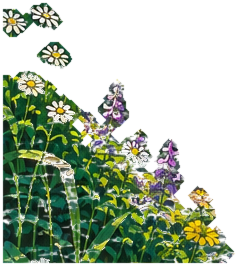
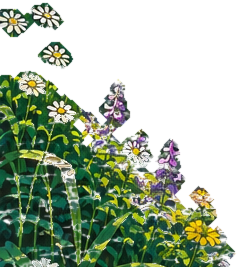
Elderbrook mill: wind motion on the willow, tree and flower beds

Changed region(s): [[0.0, 0.2406, 1.0, 1.0], [0.0, 0.0, 0.2647, 0.1504], [0.1471, 0.1504, 0.3235, 0.2707]]

diff --git a/eb/eb.js b/eb/eb.js
@@ -682,8 +682,26 @@ const props = [];
     for (let k = 0; k < pos.count; k++) { const ux = uv.getX(k), uy = uv.getY(k); pos.setXYZ(k, (x0 + (x1 - x0) * ux) / PW * 2 - 1, 1 - (y1 - (y1 - y0) * uy) / PH * 2, 0);
       wgt[k] = pr.anchor === "top" ? 1 - uy : pr.anchor === "left" ? ux : uy; }                       // 0 where it is rooted, 1 at its free end
     g.setAttribute("wgt", new THREE.BufferAttribute(wgt, 1));
-    const mat = new THREE.ShaderMaterial({ transparent: true, depthTest: false, depthWrite: false, uniforms: { map: { value: tex }, t: { value: 0 }, amp: { value: 0 } },
-      vertexShader: "attribute float wgt; uniform float t, amp; varying vec2 vUv; void main(){ vUv = uv; gl_Position = vec4(position.xy, 0.0, 1.0); }",
+    const mat = new THREE.ShaderMaterial({ transparent: true, depthTest: false, depthWrite: false, uniforms: { map: { value: tex }, t: { value: 0 }, amp: { value: +(params.get("sway") ?? 1) }, kind: { value: pr.anchor === "top" ? 0 : pr.anchor === "left" ? 1 : 2 }, seed: { value: props.length * 2.37 + 0.6 }, px: { value: 2 / PW }, asp: { value: PW / PH } },
+      vertexShader: `attribute float wgt; uniform float t, amp, kind, seed, px, asp; varying vec2 vUv;
+        void main(){ vUv = uv; vec2 p = position.xy; float sx = p.x * 3.0;
+          // one wind for the whole scene, blowing to the right in slow gusts that cross the screen; every object answers it in its own way
+          float gust = smoothstep(0.15, 0.95, 0.5 + 0.35 * sin(t * 0.21 - p.x * 1.1 + 0.8) + 0.25 * sin(t * 0.13 - p.x * 0.6 + 2.0));
+          float wind = 0.3 + 0.7 * gust; vec2 d = vec2(0.0);
+          if (kind < 0.5) {            // willow: fronds hang from the top; the swing travels down each one, and neighbours are out of step
+            float w = pow(wgt, 1.5), ph = sx * 2.3 + seed;
+            float sw = 0.55 * sin(t * 0.85 + ph - wgt * 2.2) + 0.30 * sin(t * 1.9 + ph * 1.7 - wgt * 4.0) + 0.15 * sin(t * 3.1 + ph * 2.9 - wgt * 6.0);
+            d.x = w * (wind * 7.0 * sw + gust * 6.0);  d.y = w * abs(d.x / max(w, 0.05)) * 0.12;               // pushed downwind, lifting a touch as it swings out
+          } else if (kind < 1.5) {     // tree: a heavy mass rooted at the frame's edge; boughs nod slowly, outer leaves shiver
+            float w = wgt * wgt, ph = p.y * 4.0 + seed;
+            d.x = w * wind * (2.6 * sin(t * 0.6 + ph) + 1.0 * sin(t * 2.3 + ph * 3.1 + sx * 5.0));
+            d.y = w * wind * (1.8 * sin(t * 0.5 + ph * 1.3 + 1.0) + 0.8 * sin(t * 2.7 + sx * 7.0));
+          } else {                     // flowers: stems bend from the ground, heads bobbing, each clump on its own beat
+            float w = wgt * wgt, ph = sx * 9.0 + seed;
+            float sw = 0.6 * sin(t * 1.25 + ph) + 0.4 * sin(t * 2.6 + ph * 1.8);
+            d.x = w * (wind * 5.0 * sw + gust * 3.5);  d.y = -w * abs(d.x / max(w, 0.05)) * 0.10;
+          }
+          gl_Position = vec4(p + d * amp * px * vec2(1.0, asp), 0.0, 1.0); }`,
       fragmentShader: `uniform sampler2D map; varying vec2 vUv;
         void main(){ vec4 c = texture2D(map, vUv); if (c.a < 0.01) discard; gl_FragColor = c;
           #include <colorspace_fragment>
@@ -728,6 +746,7 @@ if (S.flow) { fallMat = new THREE.ShaderMaterial({ transparent: true, depthTest:
   const m = new THREE.Mesh(new THREE.PlaneGeometry(2, 2), fallMat); m.frustumCulled = false; m.renderOrder = 8; scene.add(m); }
 function animateFx() {
   if (fallMat) fallMat.uniforms.t.value = time;
+  for (const q of props) q.material.uniforms.t.value = time;
   for (const b of banners) b.material.uniforms.t.value = time;
   if (wheelSpin) wheelSpin.mesh.rotation.z = time * wheelSpin.speed;
   bgMat.uniforms.t.value = time; shaftMat.uniforms.t.value = time;

diff --git a/eb/index.html b/eb/index.html
@@ -47,6 +47,6 @@
 <div id="dialog"><div class="n"></div><div class="x"></div></div>
 <div id="fade"></div>
 <div id="title"><h1>Elderbrook</h1><p>WASD / arrows to walk &nbsp;·&nbsp; Shift to run &nbsp;·&nbsp; E to inspect</p><div class="go" id="go">Loading…</div></div>
-<script type="module" src="./eb.js?v=30"></script>
+<script type="module" src="./eb.js?v=31"></script>
 </body>
 </html>
